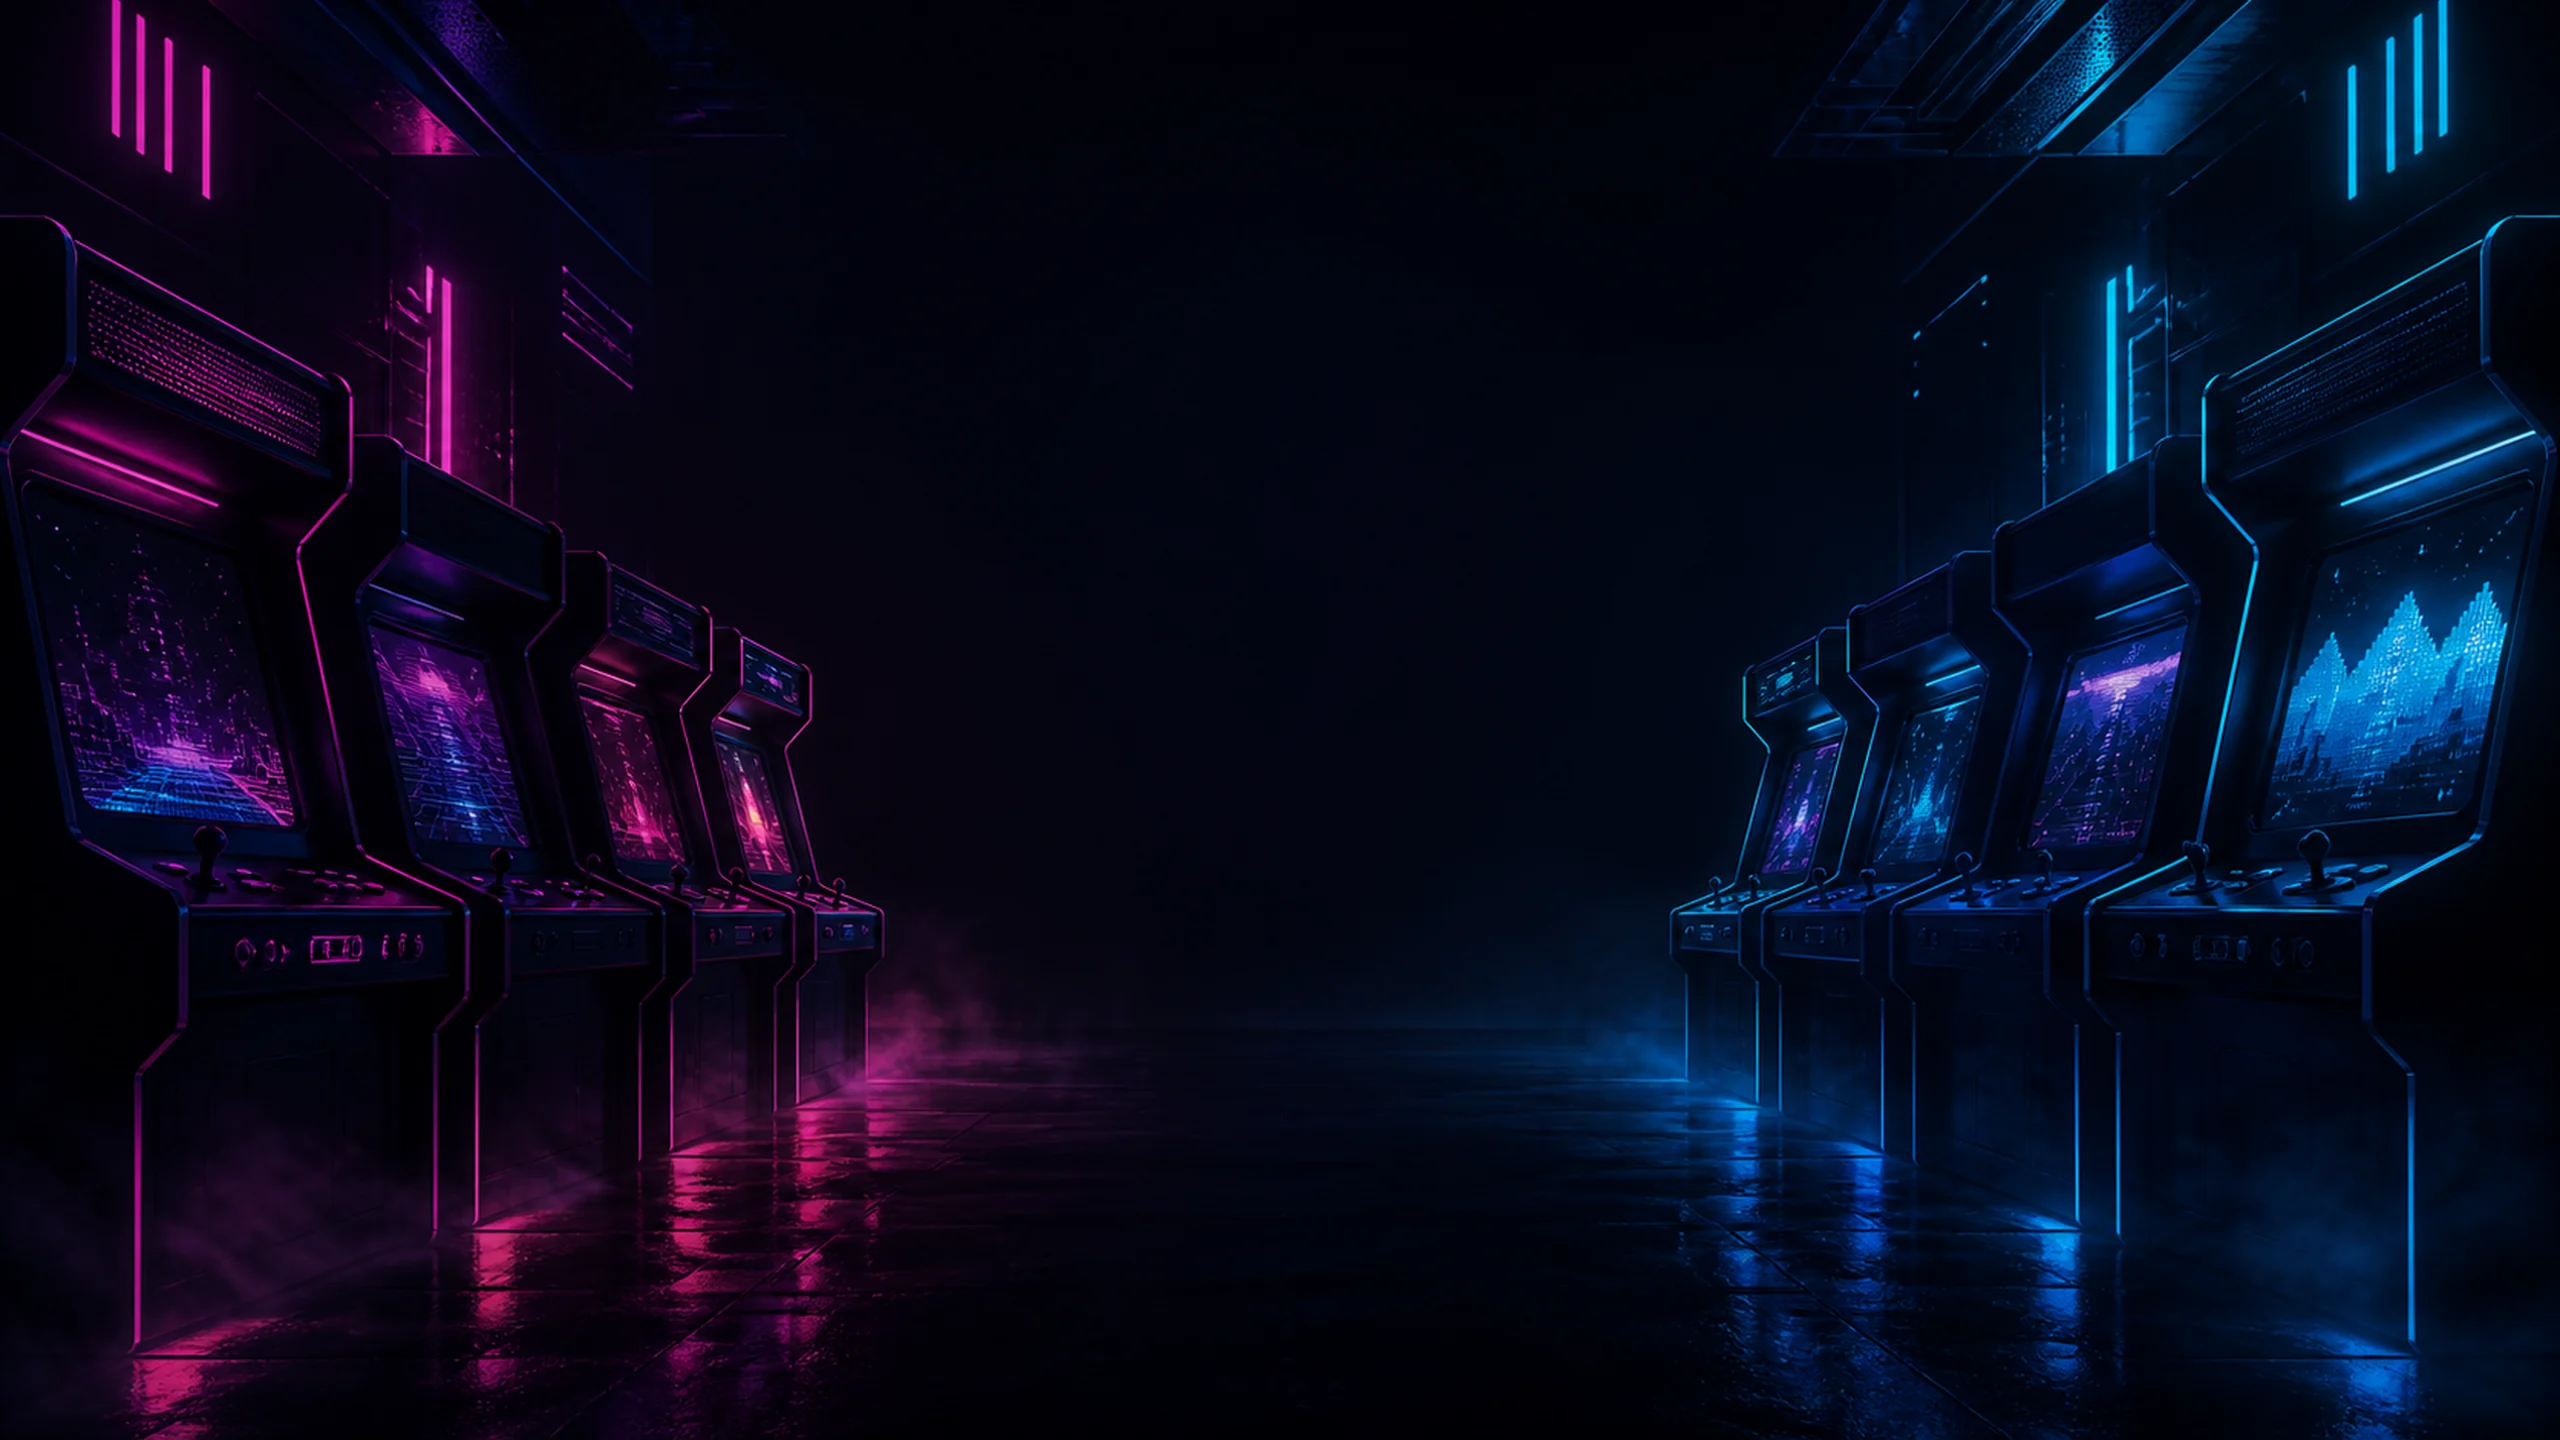
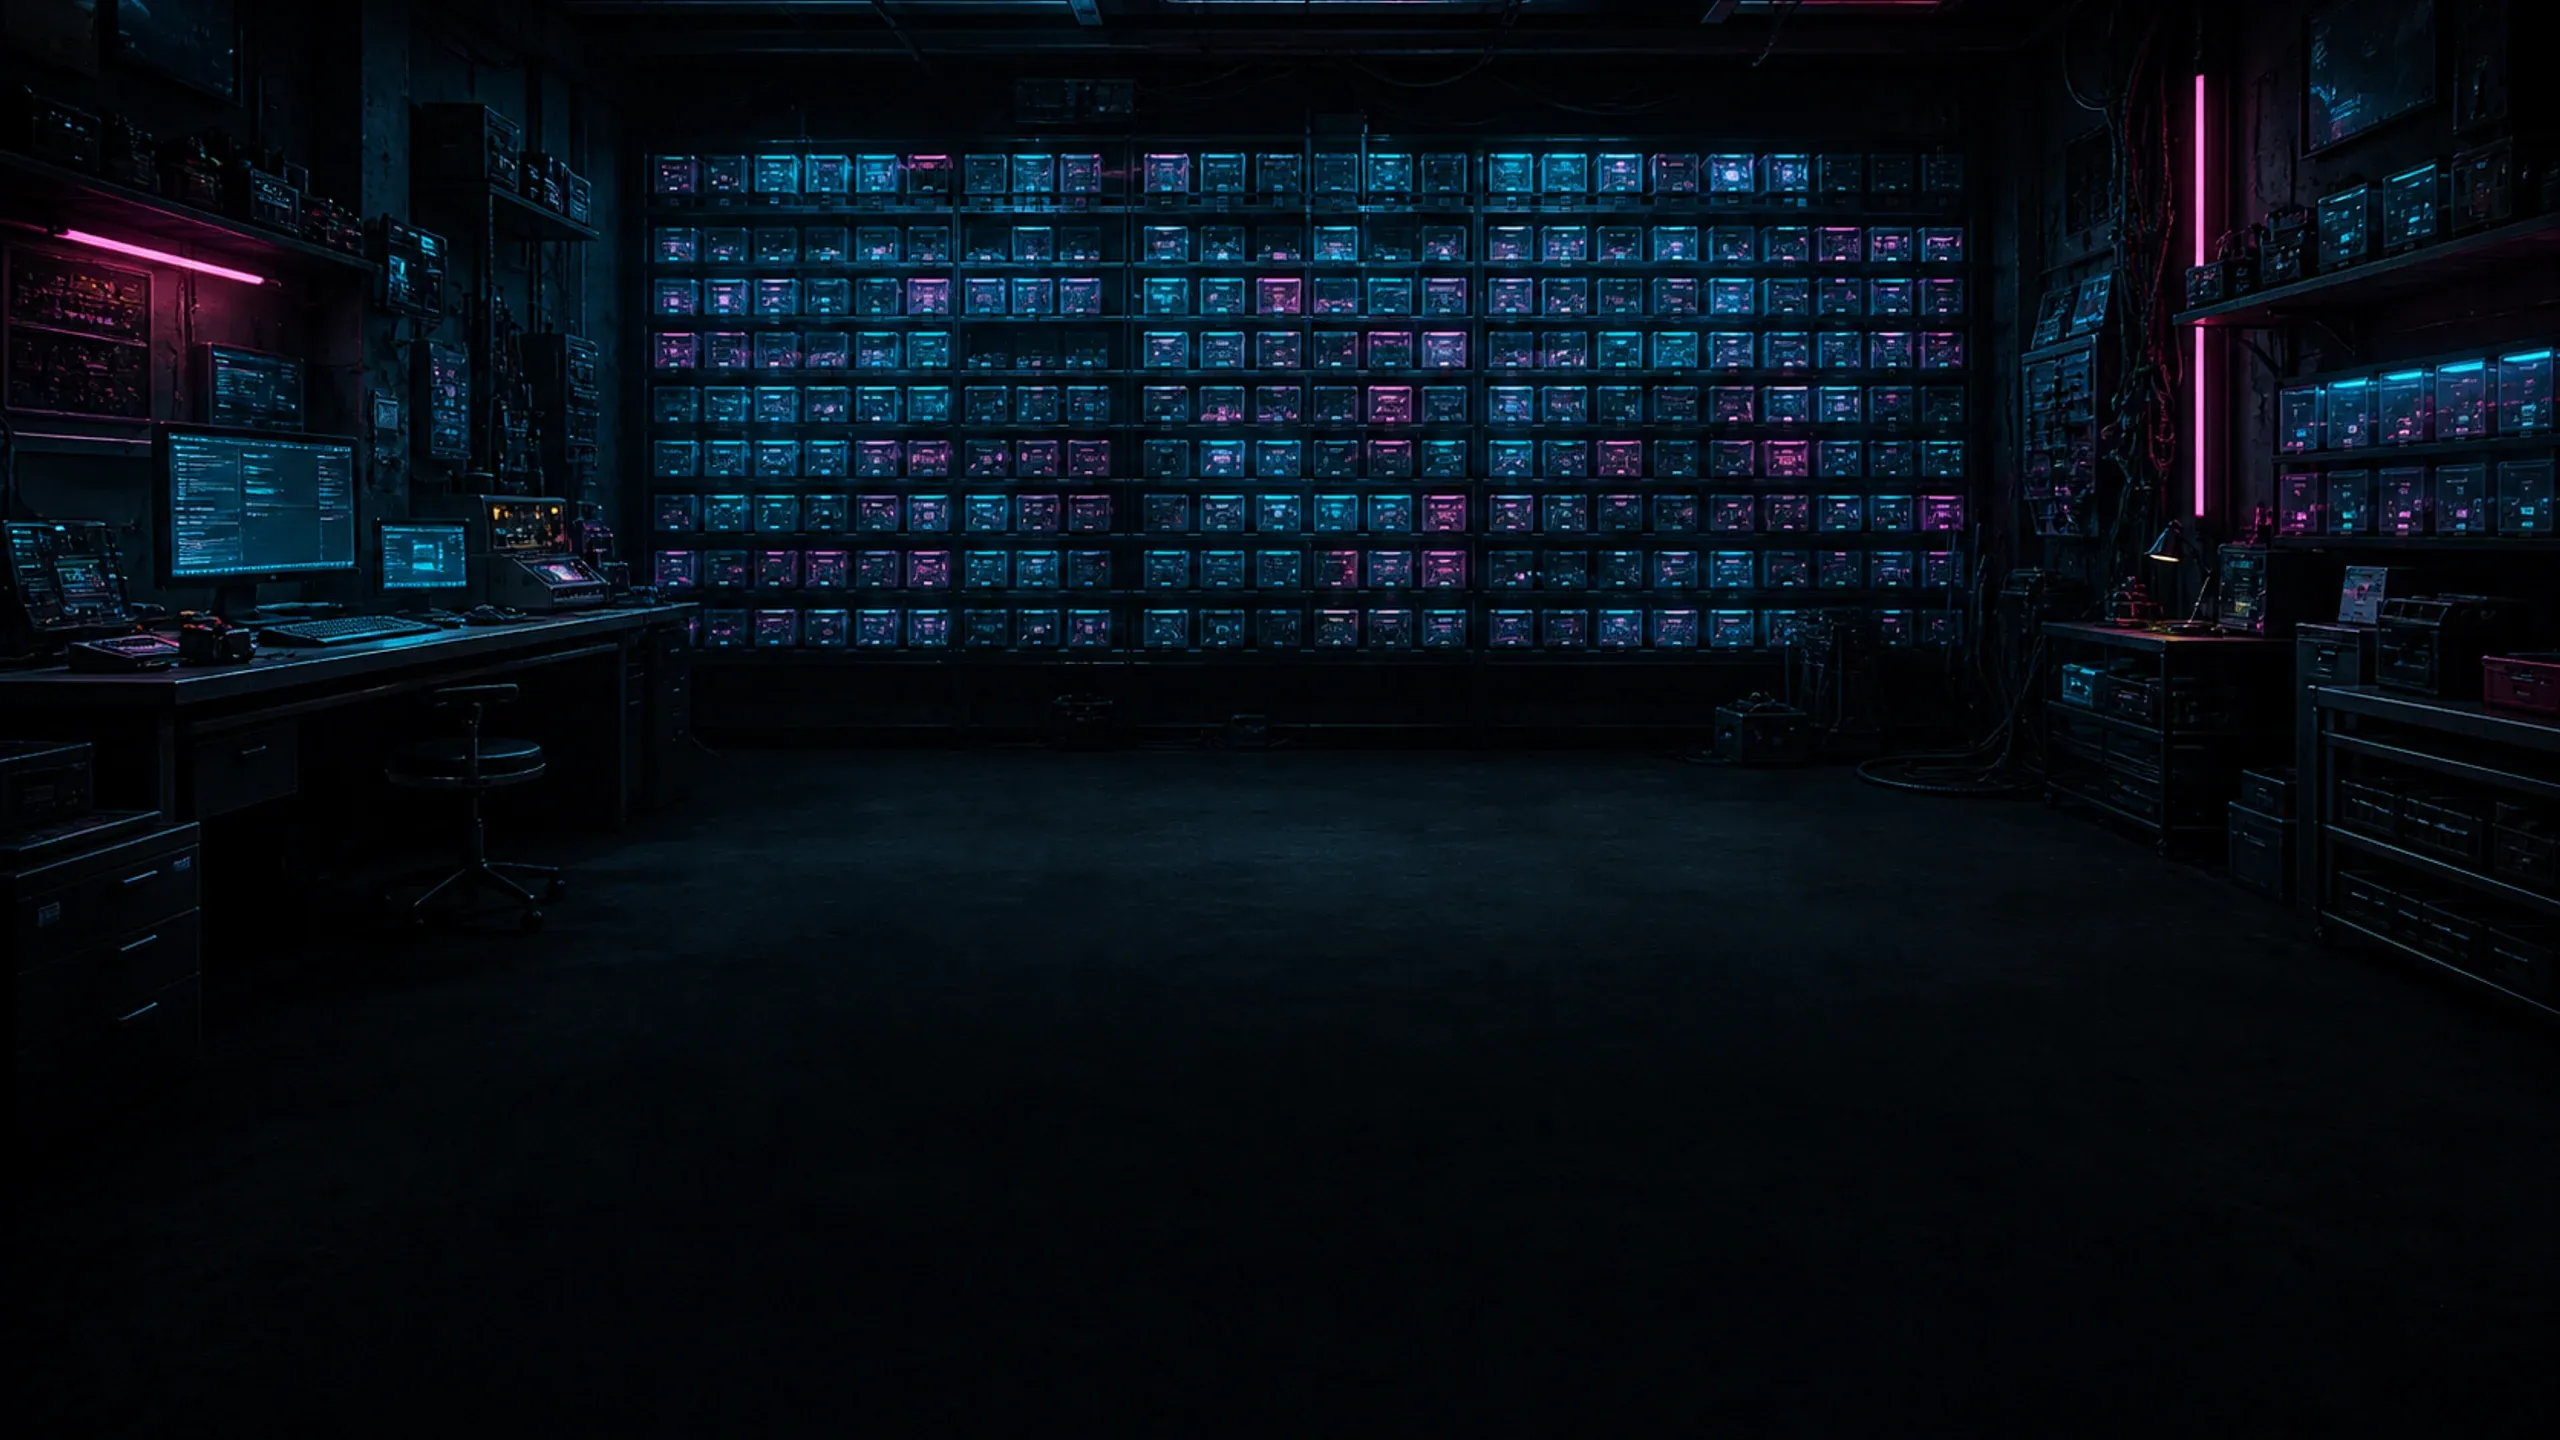
引き継ぎ文書を今日の作業に合わせて整理した
筐体方式を廃止したのに、それ前提の記述が大量に残っていた。
引き継ぎに嘘があると、次の作業がそれを前提にしてしまう。

PROJECT-STATUS.md:
- ポータル節を書き換え。PORTAL TUNER、筐体・タイトル・PLAYの画像、
  位置の確定値表はすべて廃止済みなので削除（56行→39行）
- HEXAMINE節を5行から29行へ。ソルバーが正本であること、教えていない記法を
  前の面に出さない作り、間違えたマスを開かない理由などを残した
- 公開前にやること4件を最優先として先頭へ置いた
- テスト件数を実態へ（portal 8→10、hex 108件を追加）
- 今日の作業履歴を追記。踏んだ罠4件（クラス名の衝突、発光の層順、
  setPointerCapture、ペイン非表示時のアニメーション停止）も残した

CLAUDE.md:
- ファイル構成に HEXAMINE と HELL RUNNER 2 が無かったので追加。
  サイズも再圧縮後の実測へ更新
- 素材を軽くする道具の節を追加
- PowerShellで npm が弾かれること、Prettierを入れてはいけない理由を明記

CSSロゴで確定したので、未使用の vivi-game-base-logo.webp と
変換設定の行を削除した。

npm run verify / test:portal(10件) 成功。

diff --git a/CLAUDE.md b/CLAUDE.md
@@ -9,20 +9,39 @@
 巨大HTMLを変更したら、**最後に必ず `npm run verify` を実行する。**
 構文・`<script>`の開閉と`</html>`終端・素材参照の実在を1コマンドで検査する
 (base64行を壊す編集と、素材の欠落を検出するため)。
-テストは変更した領域だけに絞る: `npm run test:runner` / `test:boss` / `test:portal`。
+テストは変更した領域だけに絞る: `npm run test:runner` / `test:boss` / `test:portal` / `test:hex`。
 
 ## ファイル構成
 
 | ファイル | 内容 | 状態 |
 |---|---|---|
 | `index.html` | ゲーム置き場(ポータル)。パッチノートもここに記載 | 現役 |
-| `games/temple-run-clone.html` | **HELL RUNNER** 本体(約6.5MB) | 現役 |
-| `games/boss-battle-demo.html` | **討伐2048** 本体(約7.3MB) | 現役 |
-| `tetris.html` | テトリス。ポータルに3本目として追加予定だが**未リンク** | 試作 |
+| `games/temple-run-clone.html` | **HELL RUNNER** 本体(1.8MB) | 現役・**凍結** |
+| `games/boss-battle-demo.html` | **討伐2048** 本体(3.2MB) | 現役 |
+| `games/hexamine.html` | **HEXAMINE** 本体(0.1MB) | 現役 |
+| `games/hell-runner-2.html` | **HELL RUNNER 2** 本体(6.3MB) | 制作中・β掲載 |
+| `tetris.html` | テトリス。**未リンク** | 試作 |
 | `supabase-setup.sql` | ランキング用テーブル作成SQL | 参照用 |
 | `supabase-fix-permissions.sql` | GRANT修正SQL(下記の落とし穴を参照) | 参照用 |
 
 ファイルサイズが大きいのは、ドット絵スプライト・UI画像・BGMを **base64で埋め込んでいる**ため。
+2026-08-21に再圧縮して約20MB削った。HEXAMINEが小さいのは、素材を `images/` の
+外部ファイルにしているのではなく、盤面をコードで描いていて絵をほぼ使わないため。
+
+## 素材を軽くする道具
+
+埋め込み素材は放っておくと数MB単位で膨らむ。手作業ではなくスクリプトで通す。
+
+| コマンド | 用途 |
+|---|---|
+| `npm run portal:images` | ポータル素材の縮小＋webp変換 |
+| `node tools/game-images.mjs <html>` | 埋め込みPNGをWebPへ。大きい絵は非可逆、ドット絵は可逆 |
+| `node tools/game-audio.mjs <html>` | 埋め込みBGMのビットレートを下げる |
+
+- 依存は `sharp` と `ffmpeg-static`(devDependency)
+- **PowerShellでは `npm` が実行ポリシーで弾かれる。`npm.cmd` を使う**
+- **Prettier等の自動整形ツールは入れないこと。** base64を1行に詰めているため、
+  折り返されるとファイルが壊れる
 コード自体は HELL RUNNER が約2200行、討伐2048 が約1700行で、base64は数十行に収まっている。
 
 ## 落とし穴 / ハマりどころ
